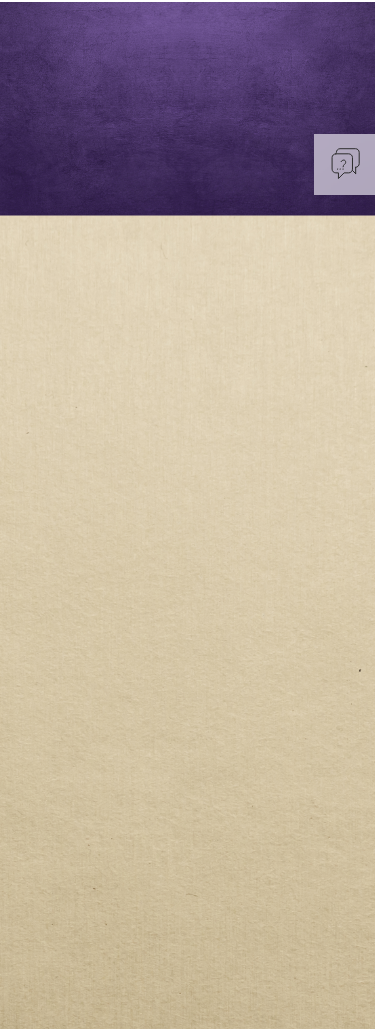
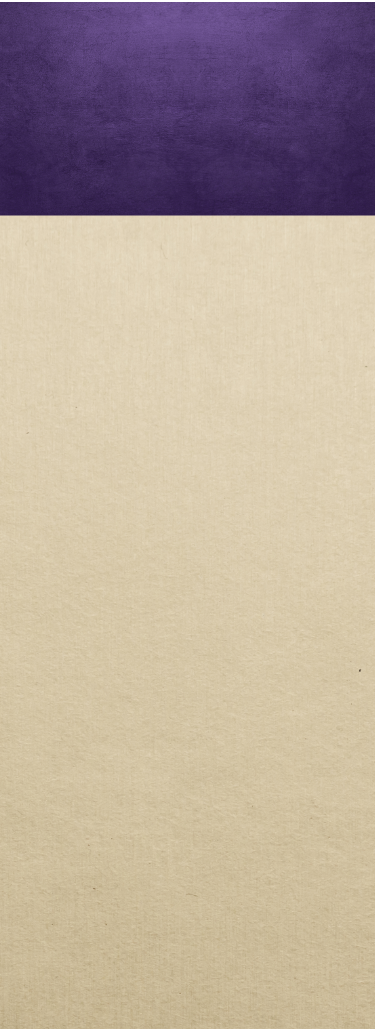
fix-1

Changed region(s): [[0.8213, 0.1244, 1.0, 0.1866]]

diff --git a/src/output.css b/src/output.css
@@ -1817,6 +1817,10 @@ video {
   right: -40%;
 }
 
+.-top-10{
+  top: -2.5rem;
+}
+
 .-top-\[10rem\]{
   top: -10rem;
 }
@@ -1827,6 +1831,10 @@ video {
 
 .bottom-0{
   bottom: 0px;
+}
+
+.bottom-10{
+  bottom: 2.5rem;
 }
 
 .bottom-5{
@@ -1899,14 +1907,6 @@ video {
 
 .top-full{
   top: 100%;
-}
-
-.bottom-10{
-  bottom: 2.5rem;
-}
-
-.-top-10{
-  top: -2.5rem;
 }
 
 .isolate{
@@ -2527,6 +2527,10 @@ video {
   height: 35px;
 }
 
+.h-\[400px\]{
+  height: 400px;
+}
+
 .h-\[40px\]{
   height: 40px;
 }
@@ -2578,22 +2582,6 @@ video {
 
 .h-screen{
   height: 100vh;
-}
-
-.h-3\/4{
-  height: 75%;
-}
-
-.h-3\/5{
-  height: 60%;
-}
-
-.h-\[400px\]{
-  height: 400px;
-}
-
-.h-4\/5{
-  height: 80%;
 }
 
 .max-h-\[1150px\]{
@@ -2982,8 +2970,8 @@ video {
   transform: translate(var(--tw-translate-x), var(--tw-translate-y)) rotate(var(--tw-rotate)) skewX(var(--tw-skew-x)) skewY(var(--tw-skew-y)) scaleX(var(--tw-scale-x)) scaleY(var(--tw-scale-y));
 }
 
-.-translate-x-1\/4{
-  --tw-translate-x: -25%;
+.-translate-x-\[17\%\]{
+  --tw-translate-x: -17%;
   transform: translate(var(--tw-translate-x), var(--tw-translate-y)) rotate(var(--tw-rotate)) skewX(var(--tw-skew-x)) skewY(var(--tw-skew-y)) scaleX(var(--tw-scale-x)) scaleY(var(--tw-scale-y));
 }
 
@@ -2992,23 +2980,8 @@ video {
   transform: translate(var(--tw-translate-x), var(--tw-translate-y)) rotate(var(--tw-rotate)) skewX(var(--tw-skew-x)) skewY(var(--tw-skew-y)) scaleX(var(--tw-scale-x)) scaleY(var(--tw-scale-y));
 }
 
-.translate-x-1\/4{
-  --tw-translate-x: 25%;
-  transform: translate(var(--tw-translate-x), var(--tw-translate-y)) rotate(var(--tw-rotate)) skewX(var(--tw-skew-x)) skewY(var(--tw-skew-y)) scaleX(var(--tw-scale-x)) scaleY(var(--tw-scale-y));
-}
-
-.translate-x-\[15\%\]{
-  --tw-translate-x: 15%;
-  transform: translate(var(--tw-translate-x), var(--tw-translate-y)) rotate(var(--tw-rotate)) skewX(var(--tw-skew-x)) skewY(var(--tw-skew-y)) scaleX(var(--tw-scale-x)) scaleY(var(--tw-scale-y));
-}
-
 .translate-x-\[17\%\]{
   --tw-translate-x: 17%;
-  transform: translate(var(--tw-translate-x), var(--tw-translate-y)) rotate(var(--tw-rotate)) skewX(var(--tw-skew-x)) skewY(var(--tw-skew-y)) scaleX(var(--tw-scale-x)) scaleY(var(--tw-scale-y));
-}
-
-.-translate-x-\[17\%\]{
-  --tw-translate-x: -17%;
   transform: translate(var(--tw-translate-x), var(--tw-translate-y)) rotate(var(--tw-rotate)) skewX(var(--tw-skew-x)) skewY(var(--tw-skew-y)) scaleX(var(--tw-scale-x)) scaleY(var(--tw-scale-y));
 }
 
@@ -6683,28 +6656,16 @@ video {
     height: 60px;
   }
 
-  .md\:h-\[70px\]{
-    height: 70px;
-  }
-
-  .md\:h-\[900px\]{
-    height: 900px;
-  }
-
-  .md\:h-auto{
-    height: auto;
-  }
-
-  .md\:h-\[800px\]{
-    height: 800px;
-  }
-
   .md\:h-\[700px\]{
     height: 700px;
   }
 
-  .md\:h-4\/5{
-    height: 80%;
+  .md\:h-\[70px\]{
+    height: 70px;
+  }
+
+  .md\:h-auto{
+    height: auto;
   }
 
   .md\:max-h-\[1024px\]{

diff --git a/page/shawn/component/craft-your-tale/component.js b/page/shawn/component/craft-your-tale/component.js
@@ -131,7 +131,9 @@ const CraftYourTaleComponent = defineComponent({
                       <span v-html="texts.subtitle[language]"></span>
                     </h2>
                   </div>
-                  <div class="space-y-3" v-html="texts.description[language]"></div>
+                  <div class="space-y-3" >
+                    <p class="text-center text-[20px] font-normal font-['IBM_Plex_Sans_Thai']" data-aos="fade-up" data-aos-duration="500" data-aos-easing="linear" v-html="texts.description[language]"></p>
+                  </div>
                 </div>
               </div>
             </div>
@@ -194,14 +196,10 @@ const CraftYourTaleComponent = defineComponent({
         },
         description: {
           en: `
-            <p class="text-center text-[20px] font-['IBM_Plex_Sans_Thai']" data-aos="fade-up" data-aos-duration="500" data-aos-easing="linear">
               จากแนวคิด “Crafted to Last” ของสิงห์ เอสเตท จึงถูกนำมาใช้ในทุกองค์ประกอบที่ให้คุณค่าความสวยงาม ความยั่งยืน <br/>และง่ายต่อการบำรุงรักษา คัดสรรวัสดุที่มีความสวยงามและเต็มไปด้วยคุณภาพ เพื่อความคงทนและยั่งยืน
-            </p>
           `,
           th: `
-            <p class="text-center text-[20px] font-['IBM_Plex_Sans_Thai']" data-aos="fade-up" data-aos-duration="500" data-aos-easing="linear">
               จากแนวคิด “Crafted to Last” ของสิงห์ เอสเตท จึงถูกนำมาใช้ในทุกองค์ประกอบที่ให้คุณค่าความสวยงาม ความยั่งยืน <br/>และง่ายต่อการบำรุงรักษา คัดสรรวัสดุที่มีความสวยงามและเต็มไปด้วยคุณภาพ เพื่อความคงทนและยั่งยืน
-            </p>
           `
         },
         images: {

diff --git a/page/shawn/component/banner/component.js b/page/shawn/component/banner/component.js
@@ -17,7 +17,7 @@ const BannerComponent = defineComponent({
                         <img :src="logos[language].desktop" alt="logo">
                       </div>
                       <div>
-                        <p class="font-['IBM_Plex_Sans_Thai'] uppercase lg:text-[40px] text-[45px] text-white text-center leading-tight" v-html="slide.title[language]">
+                        <p class="font-['IBM_Plex_Sans_Thai'] uppercase text-[30px] text-white text-center leading-tight font-normal" v-html="slide.title[language]">
                         </p>
                       </div>
                       <div class="mx-auto">
@@ -42,7 +42,7 @@ const BannerComponent = defineComponent({
                         <img :src="logos[language].mobile" alt="logo">
                       </div>
                       <div>
-                        <p class="font-['IBM_Plex_Sans_Thai'] uppercase text-[20px] text-white text-center leading-tight" v-html="slide.title[language]">
+                        <p class="font-['IBM_Plex_Sans_Thai'] uppercase text-[20px] text-white text-center leading-tight font-normal" v-html="slide.title[language]">
                         </p>
                       </div>
                       <div class="mx-auto mt-auto mb-20">
